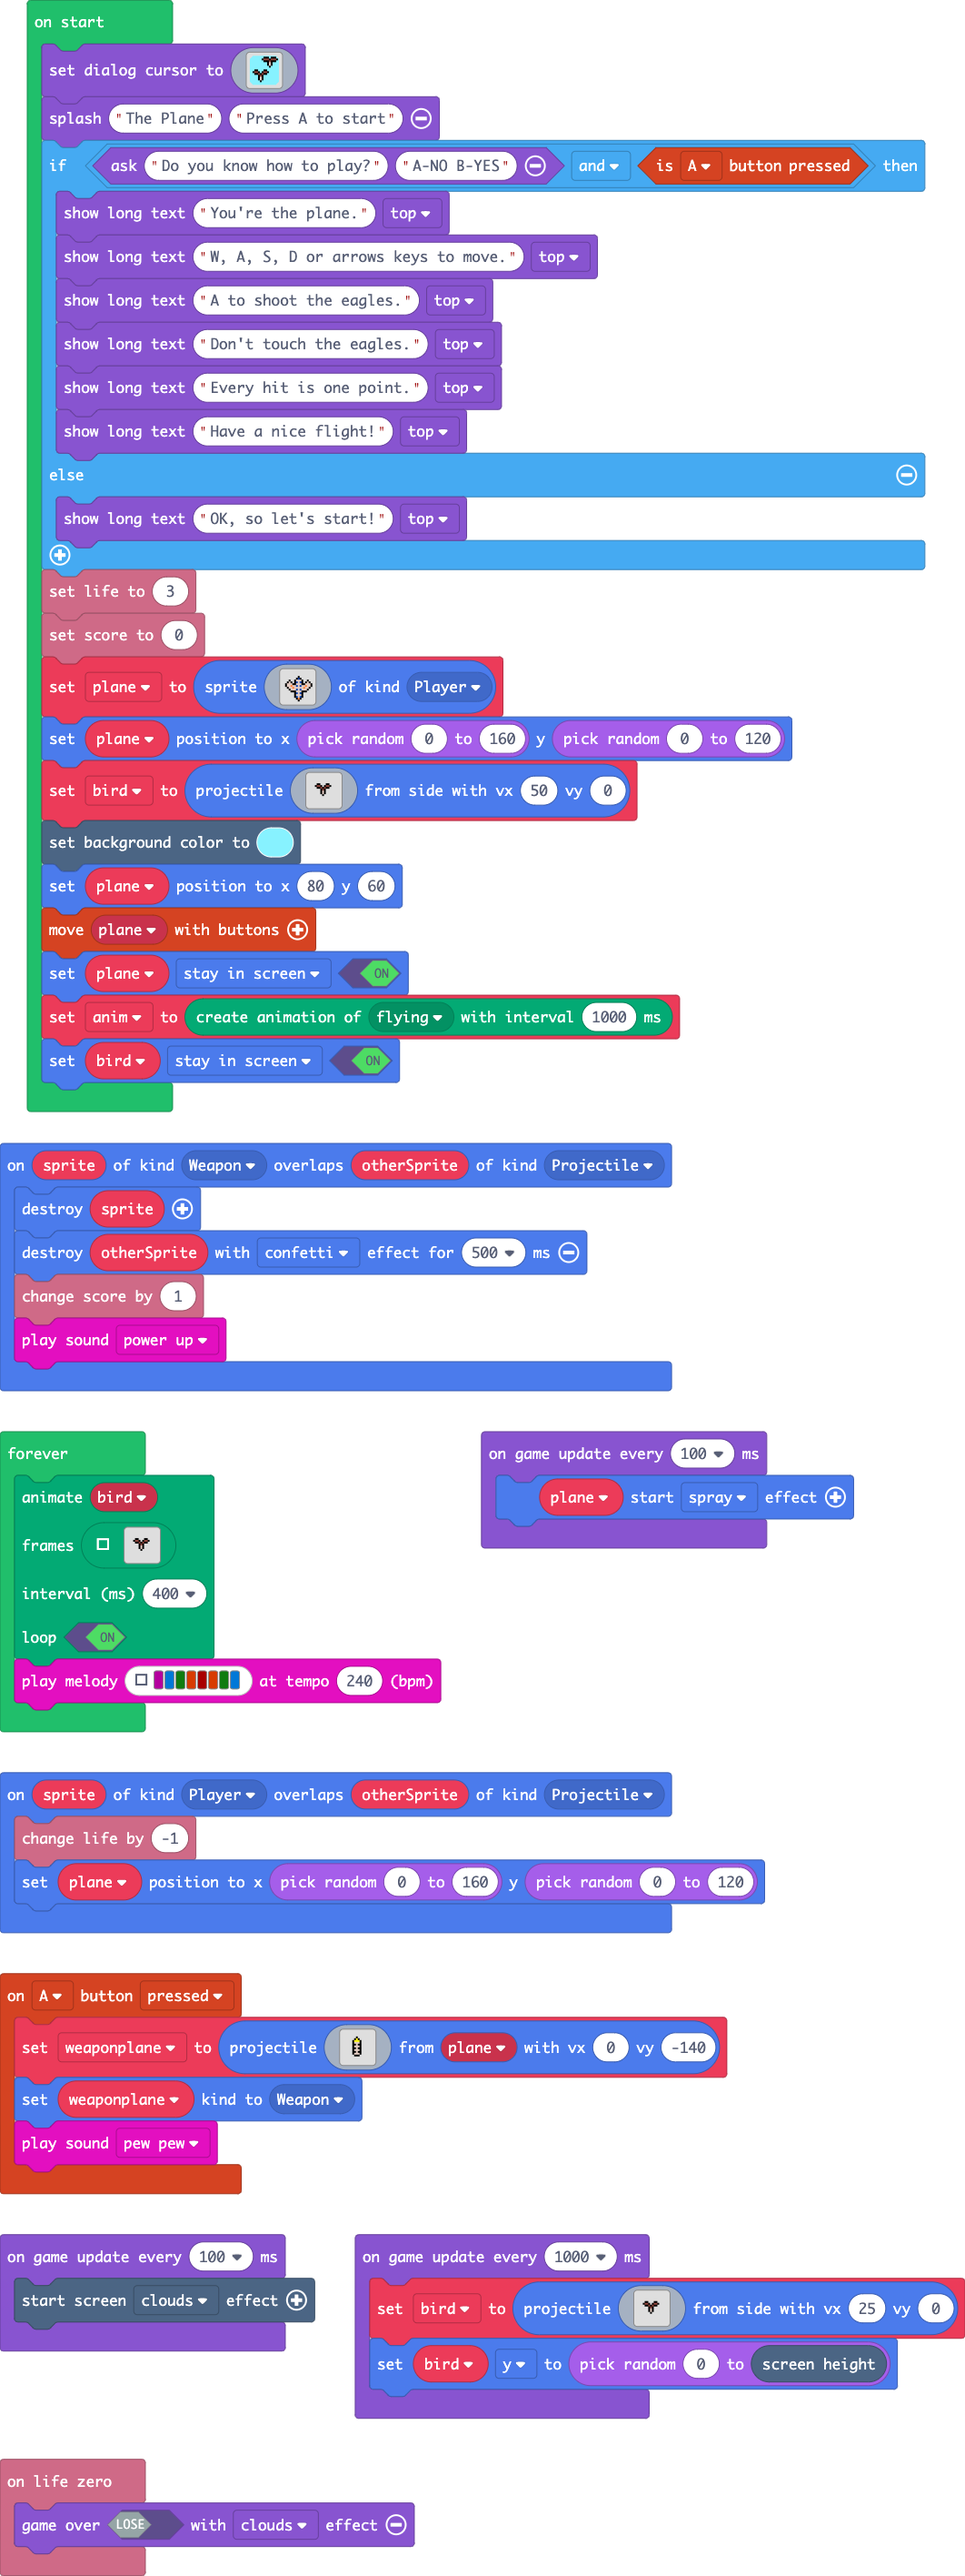
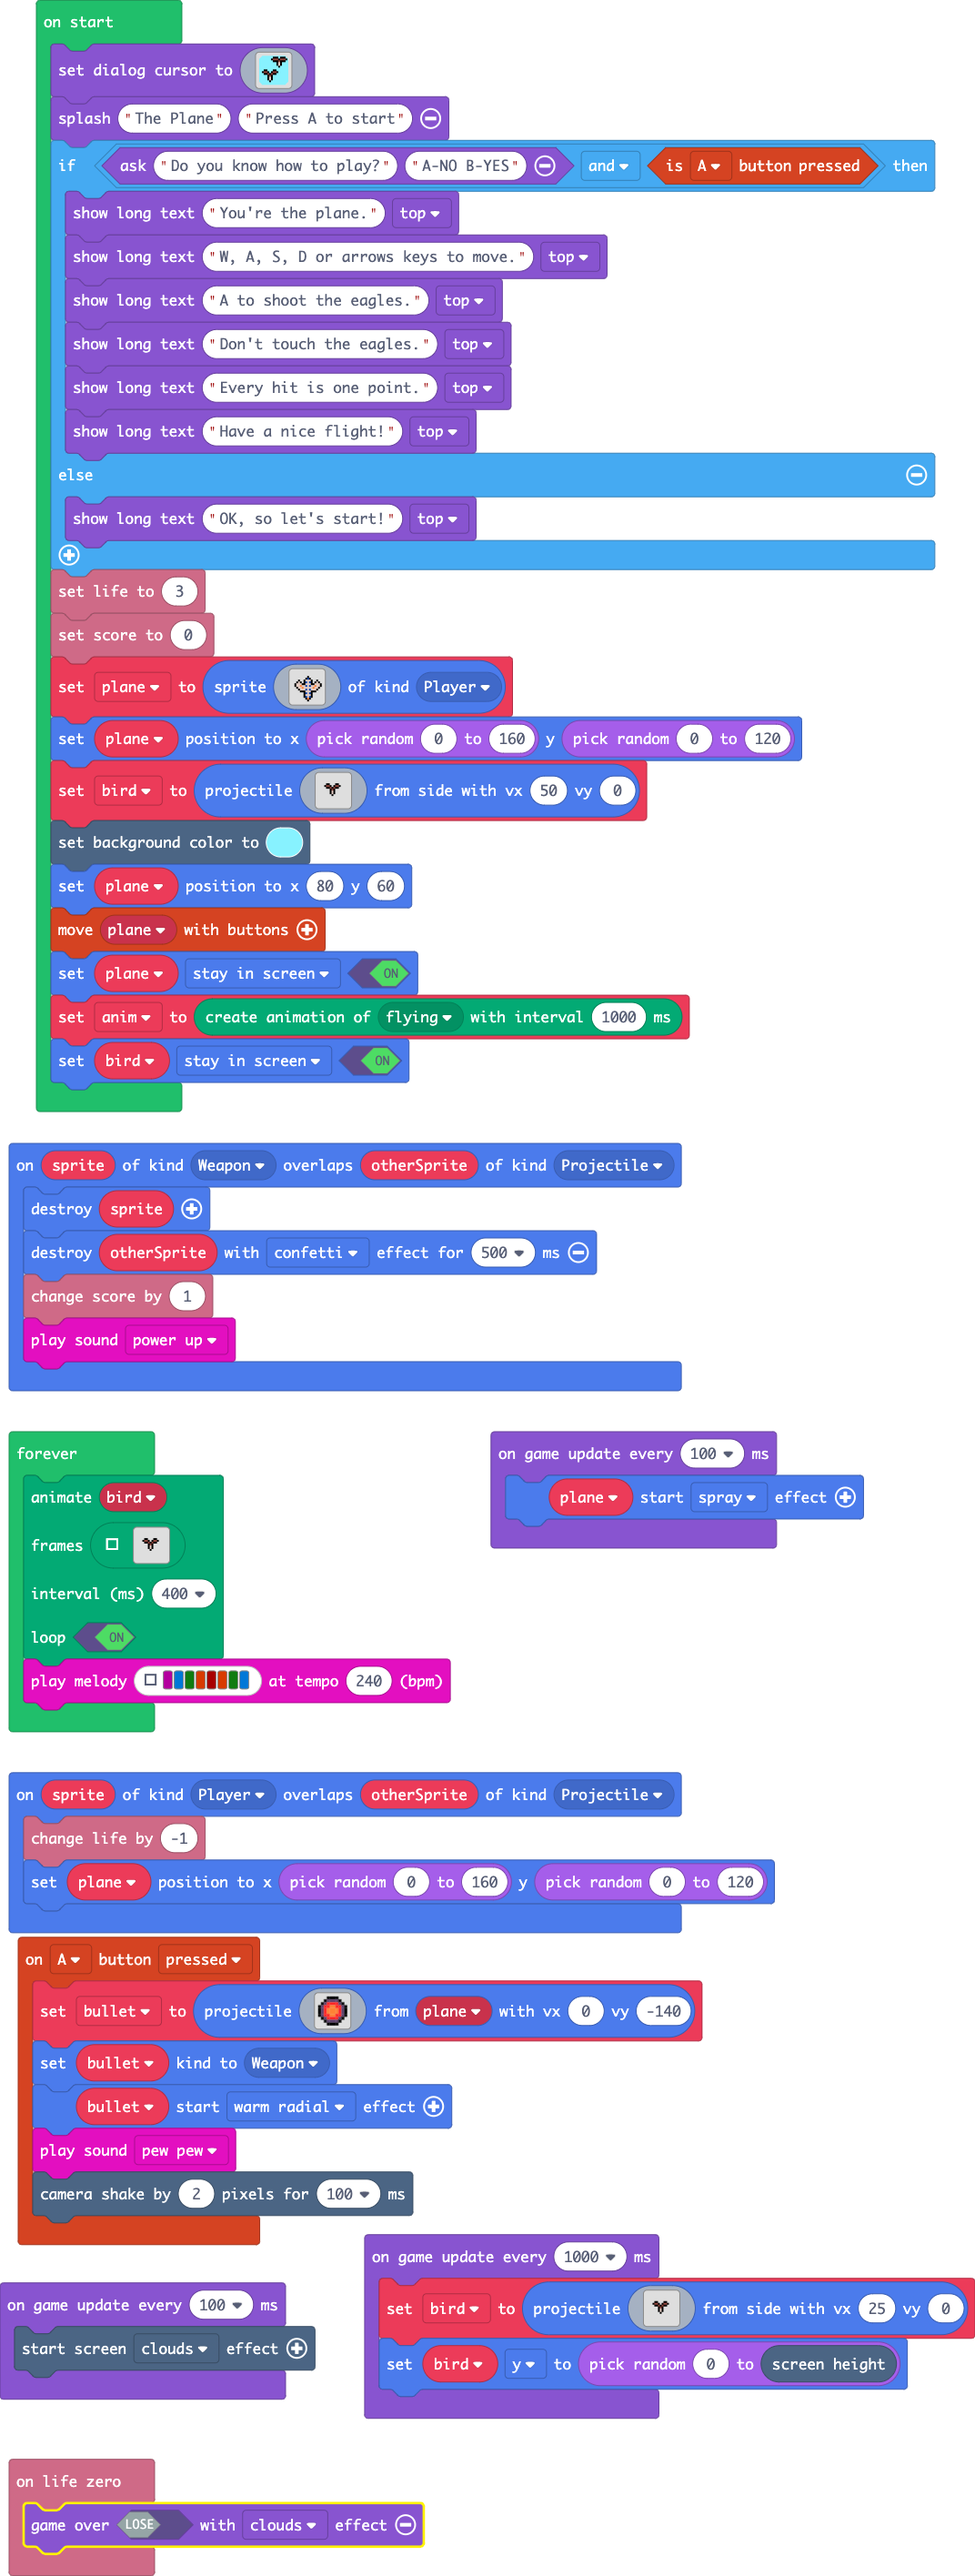
Update main.blocks, main.ts

diff --git a/main.ts b/main.ts
@@ -12,26 +12,22 @@ sprites.onOverlap(SpriteKind.Player, SpriteKind.Projectile, function (sprite, ot
     plane.setPosition(Math.randomRange(0, 160), Math.randomRange(0, 120))
 })
 controller.A.onEvent(ControllerButtonEvent.Pressed, function () {
-    weaponplane = sprites.createProjectileFromSprite(img`
-. . . . . . . . . . . . . . . . 
-. . . . . . . . . . . . . . . . 
-. . . . . . . f . . . . . . . . 
-. . . . . . f 5 f . . . . . . . 
-. . . . . f 5 5 5 f . . . . . . 
-. . . . . f d d d f . . . . . . 
-. . . . . f f d f f . . . . . . 
-. . . . . f d d d f . . . . . . 
-. . . . . f f d f f . . . . . . 
-. . . . . f d d d f . . . . . . 
-. . . . . f f d f f . . . . . . 
-. . . . . f d d d f . . . . . . 
-. . . . . . f f f . . . . . . . 
-. . . . . . . . . . . . . . . . 
-. . . . . . . . . . . . . . . . 
-. . . . . . . . . . . . . . . . 
+    bullet = sprites.createProjectileFromSprite(img`
+. . . f f f f . . . 
+. . f c c c c f . . 
+. f c 2 2 2 2 c f . 
+f c 2 2 4 4 2 2 c f 
+f c 2 4 4 4 4 2 c f 
+f c 2 4 4 4 4 2 c f 
+f c 2 2 4 4 2 2 c f 
+. f c 2 2 2 2 c f . 
+. . f c c c c f . . 
+. . . f f f f . . . 
 `, plane, 0, -140)
-    weaponplane.setKind(SpriteKind.Weapon)
+    bullet.setKind(SpriteKind.Weapon)
+    bullet.startEffect(effects.warmRadial)
     music.pewPew.play()
+    scene.cameraShake(2, 100)
 })
 sprites.onOverlap(SpriteKind.Weapon, SpriteKind.Projectile, function (sprite, otherSprite) {
     sprite.destroy()
@@ -42,7 +38,7 @@ sprites.onOverlap(SpriteKind.Weapon, SpriteKind.Projectile, function (sprite, ot
 info.onLifeZero(function () {
     game.over(false, effects.clouds)
 })
-let weaponplane: Sprite = null
+let bullet: Sprite = null
 let plane: Sprite = null
 game.setDialogCursor(img`
 . . . 9 9 9 9 9 9 9 9 9 9 9 9 9 9 9 9 9 9 9 9 9 9 9 9 9 9 . . . 
